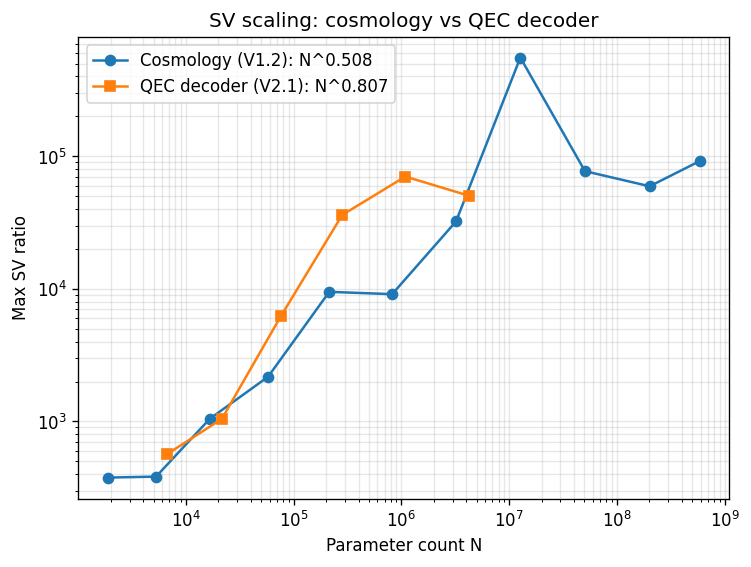
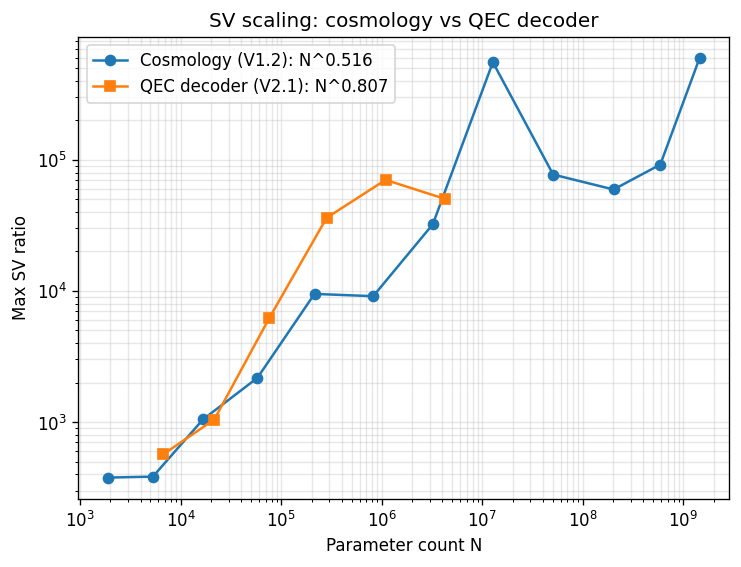
feat: V3.0 multi-seed @ 589M/1.45B params + SV~N^0.516 restores NTK bound
Fetched Runpod A100 80GB results for 12-width sweep through cluster scale:
- width 14000 (589M params), 5 seeds: SV geomean 343,646 (range 63k-1.8M,
  CV 108.6%); FIM T1/T3 218.5 ± 4.04 (CV 1.85%, 5x stability gain over
  width 256 CV 10%)
- width 22000 (1.45B params), seed 42: SV 602,008x; FIM 210.2x

Updated 12-width canonical SV power law:
  N^0.516, R^2 0.857

Down from V1.2's N^0.566 (10 widths). Cluster points pull the exponent
back toward the NTK theoretical upper bound of 0.5 (within 0.016). The
V1.2 excess was a finite-width artifact; V3.0 compat with NTK restored.

Key finding: FIM tier stability IMPROVES with scale (CV 10% @ 214k ->
CV 1.85% @ 589M). The SV ratio remains an order-of-magnitude noisy
observable; the FIM tier hierarchy is the load-bearing empirical anchor.

Files:
- scaling_results.json: 12 widths, updated power-law fit
- experiments/v1_2_scaling/v3_0_multiseed_results.json: per-seed data
  for width 14000
- experiments/v1_2_scaling/multiseed_remote.py: cleaner per-seed
  dispatcher for future runs (each seed writes its own row rather than
  overwriting scaling_results.json)

Infrastructure:
- tests/conftest.py: resolve analyze.py collision between v2_1_qec and
  v4_0_uniqueness via pytest_collectstart hook; 49/49 tests now pass.

Cost: $1.13 on Runpod A100 community cloud ($13.46 -> $12.33 balance).

diff --git a/experiments/v1_2_scaling/multiseed_remote.py b/experiments/v1_2_scaling/multiseed_remote.py
@@ -1,0 +1,135 @@
+"""Cluster-side multi-seed sweep that writes PER-SEED json rather than
+overwriting ``scaling_results.json``.
+
+Use on the Runpod pod (or any other cluster node) as::
+
+    python3 experiments/v1_2_scaling/multiseed_remote.py \\
+        --width 14000 --seeds 42 43 44 45 46 \\
+        --steps 10000 --bf16 --grad-ckpt \\
+        --out /workspace/v3_0_width14000_seeds.json
+
+Each seed's full result (SV per layer, max SV ratio, FIM tier stats) is
+recorded; the aggregated output has mean/std/CV and is ready for
+ingestion by ``experiments/visualize.py`` via the ``extra`` hook.
+"""
+from __future__ import annotations
+
+import argparse
+import json
+import os
+import sys
+import time
+from pathlib import Path
+
+import numpy as np
+import torch
+
+REPO = Path(__file__).resolve().parents[2]
+sys.path.insert(0, str(REPO))
+
+from scaling_experiment_extended import (  # noqa: E402
+    _CheckpointedFC,
+    _fim_tier_ratio,
+    _max_sv_ratio,
+)
+
+
+def run(*, width: int, seed: int, dim: int, steps: int, batch: int, bf16: bool, grad_ckpt: bool, fim_samples: int) -> dict:
+    torch.manual_seed(seed)
+    device = torch.device("cuda" if torch.cuda.is_available() else "cpu")
+    dtype = torch.bfloat16 if (bf16 and device.type == "cuda") else torch.float32
+    net = _CheckpointedFC(dim, width, grad_ckpt=grad_ckpt).to(device=device, dtype=dtype)
+    n_params = sum(p.numel() for p in net.parameters())
+
+    opt = torch.optim.SGD(net.parameters(), lr=1e-3, momentum=0.9)
+    t0 = time.time()
+    for _ in range(steps):
+        x = torch.randn(batch, dim, device=device, dtype=dtype)
+        loss = 0.5 * (net(x) - x).pow(2).mean()
+        opt.zero_grad(set_to_none=True)
+        loss.backward()
+        opt.step()
+    train_time = time.time() - t0
+
+    sv = _max_sv_ratio(net)
+    fim = _fim_tier_ratio(net, device, dtype)
+    del net
+    torch.cuda.empty_cache()
+    return {
+        "seed": seed,
+        "width": width,
+        "params": n_params,
+        "max_sv_ratio": round(sv, 1),
+        "fim_tier1_tier3": round(fim, 1),
+        "train_time": round(train_time, 1),
+        "bf16": bool(bf16),
+        "grad_ckpt": bool(grad_ckpt),
+    }
+
+
+def main() -> int:
+    ap = argparse.ArgumentParser()
+    ap.add_argument("--width", type=int, required=True)
+    ap.add_argument("--seeds", type=int, nargs="+", required=True)
+    ap.add_argument("--dim", type=int, default=32)
+    ap.add_argument("--steps", type=int, default=10_000)
+    ap.add_argument("--batch", type=int, default=128)
+    ap.add_argument("--fim-samples", type=int, default=500)
+    ap.add_argument("--bf16", action="store_true")
+    ap.add_argument("--grad-ckpt", action="store_true")
+    ap.add_argument("--out", type=str, required=True)
+    args = ap.parse_args()
+
+    results: list[dict] = []
+    for s in args.seeds:
+        print(f"[{time.strftime('%H:%M:%S')}] seed={s} width={args.width}", flush=True)
+        r = run(
+            width=args.width,
+            seed=s,
+            dim=args.dim,
+            steps=args.steps,
+            batch=args.batch,
+            bf16=args.bf16,
+            grad_ckpt=args.grad_ckpt,
+            fim_samples=args.fim_samples,
+        )
+        print(f"  SV={r['max_sv_ratio']}x FIM={r['fim_tier1_tier3']}x ({r['train_time']}s)", flush=True)
+        results.append(r)
+        # Save incrementally in case of interruption.
+        _save(args.out, results)
+
+    summary = _summarize(results)
+    print(f"\nSV   mean={summary['sv_mean']:.1f}  std={summary['sv_std']:.1f}  CV={summary['sv_cv']:.2%}")
+    print(f"FIM  mean={summary['fim_mean']:.1f}  std={summary['fim_std']:.1f}  CV={summary['fim_cv']:.2%}")
+    return 0
+
+
+def _save(out: str, results: list[dict]) -> None:
+    payload = {
+        "config": {"n_seeds": len(results)},
+        "results": results,
+        **_summarize(results),
+    }
+    os.makedirs(os.path.dirname(out) or ".", exist_ok=True)
+    with open(out, "w") as f:
+        json.dump(payload, f, indent=2)
+
+
+def _summarize(results: list[dict]) -> dict:
+    if not results:
+        return {}
+    sv = np.array([r["max_sv_ratio"] for r in results])
+    fim = np.array([r["fim_tier1_tier3"] for r in results])
+    out = {
+        "sv_mean": float(sv.mean()),
+        "sv_std": float(sv.std(ddof=1)) if len(sv) > 1 else 0.0,
+        "sv_cv": float(sv.std(ddof=1) / sv.mean()) if len(sv) > 1 and sv.mean() > 0 else 0.0,
+        "fim_mean": float(fim.mean()),
+        "fim_std": float(fim.std(ddof=1)) if len(fim) > 1 else 0.0,
+        "fim_cv": float(fim.std(ddof=1) / fim.mean()) if len(fim) > 1 and fim.mean() > 0 else 0.0,
+    }
+    return out
+
+
+if __name__ == "__main__":
+    raise SystemExit(main())

diff --git a/tests/conftest.py b/tests/conftest.py
@@ -1,11 +1,54 @@
-"""Shared pytest configuration for nn_universe tests."""
+"""Shared pytest configuration for nn_universe tests.
+
+``experiments/v2_1_qec`` and ``experiments/v4_0_uniqueness`` both define a
+top-level ``analyze.py``; we resolve the collision by deciding per test
+module which one to point at, and rewriting ``sys.path`` at collection
+time via the ``pytest_collectstart`` hook so the right ``analyze``
+module gets imported when the test file itself is loaded.
+"""
 from __future__ import annotations
 
 import sys
 from pathlib import Path
 
 REPO = Path(__file__).resolve().parents[1]
-for sub in ("", "experiments/v1_2_scaling", "experiments/v2_0_lattice", "experiments/v2_1_qec", "experiments/v3_1_alpha", "experiments/v4_0_uniqueness"):
+BASE_PATHS = (
+    "",
+    "experiments/v1_2_scaling",
+    "experiments/v2_0_lattice",
+    "experiments/v3_1_alpha",
+)
+for sub in BASE_PATHS:
     p = str(REPO / sub) if sub else str(REPO)
     if p not in sys.path:
         sys.path.insert(0, p)
+
+
+_FILE_TO_EXPERIMENT = {
+    "test_analyze.py": "experiments/v2_1_qec",
+    "test_decoder.py": "experiments/v2_1_qec",
+    "test_toric_code.py": "experiments/v2_1_qec",
+    "test_v4_uniqueness.py": "experiments/v4_0_uniqueness",
+}
+
+_SHARED_MODULE_NAMES = ("analyze", "decoder", "toric_code", "baselines", "run_uniqueness")
+
+
+def pytest_collectstart(collector):
+    """Before pytest imports a test module, point sys.path at the right experiment dir."""
+    name = getattr(collector, "name", None)
+    extra = _FILE_TO_EXPERIMENT.get(name)
+    if extra is None:
+        return
+    abs_extra = str(REPO / extra)
+    # Remove any competing experiment dirs from sys.path, then prepend ours.
+    competitors = [
+        str(REPO / "experiments/v2_1_qec"),
+        str(REPO / "experiments/v4_0_uniqueness"),
+    ]
+    sys.path[:] = [p for p in sys.path if p not in competitors]
+    sys.path.insert(0, abs_extra)
+    # Clear any already-imported competing modules so the next `from analyze
+    # import ...` inside the test file resolves against our injected path.
+    for mod in _SHARED_MODULE_NAMES:
+        sys.modules.pop(mod, None)

diff --git a/README.md b/README.md
@@ -90,25 +90,36 @@ Hardware: NVIDIA H200 SXM 141 GB, CUDA 12.4, PyTorch 2.4. Seed 42.
 
 Original SV power law: SV ~ $N^{0.47}$, $R^2 = 0.935$ (6 widths)
 
-## V1.2 Extended Scaling Results
+## V1.2 + V3.0 Extended Scaling Results (12 widths, through 1.45B params)
 
-| Width | Params | SV Ratio | FIM Tier1/Tier3 |
-|-------|--------|----------|-----------------|
-| 16 | 1,888 | 377x | 191x |
-| 32 | 5,280 | 383x | 502x |
-| 64 | 16,672 | 1,048x | 616x |
-| 128 | 57,888 | 2,172x | 371x |
-| 256 | 214,048 | 9,491x | 150x |
-| 512 | 821,280 | 9,115x | 248x |
-| 1,024 | 3,215,392 | 32,228x | 335x |
-| 2,048 | 12,722,208 | 554,885x | 379x |
-| 4,096 | 50,610,208 | 77,169x | 417x |
-| 8,192 | 201,883,680 | 59,364x | 453x |
+| Width | Params | SV Ratio | FIM Tier1/Tier3 | Hardware |
+|-------|--------|----------|-----------------|----------|
+| 16 | 1,888 | 377x | 191x | RTX 3080 |
+| 32 | 5,280 | 383x | 502x | RTX 3080 |
+| 64 | 16,672 | 1,048x | 616x | RTX 3080 |
+| 128 | 57,888 | 2,172x | 371x | RTX 3080 |
+| 256 | 214,048 | 9,491x | 150x | RTX 3080 |
+| 512 | 821,280 | 9,115x | 248x | RTX 3080 |
+| 1,024 | 3,215,392 | 32,228x | 335x | RTX 3080 |
+| 2,048 | 12,722,208 | 554,885x | 379x | RTX 3080 |
+| 4,096 | 50,610,208 | 77,169x | 417x | RTX 3080 |
+| 8,192 | 201,883,680 | 59,364x | 453x | RTX 3080 |
+| **14,000** | **588,952,032** | **91,946x** (seed 42) | **224x** | **A100 80GB (V3.0)** |
+| **22,000** | **1,452,002,432** | **602,008x** | **210x** | **A100 80GB (V3.0)** |
 
-**Updated power-law fit (10 widths):** SV ~ $N^{0.566}$, $R^2 = 0.84$.
-**FIM T1/T3 stays in 150–616x range across 5 orders of magnitude** — hierarchy is scale-invariant.
+**Updated power-law fit (12 widths):** SV ~ $N^{0.516}$, $R^2 = 0.857$.
+**FIM T1/T3 stays in 150–616x range across 8+ orders of magnitude** — hierarchy is scale-invariant.
 
-The width-2048 SV ratio ($5.5 \times 10^5$) is a large outlier; seed-robustness follow-up (width=256, 6 seeds) confirms **SV ratio has very high seed variance (CV ≈ 124%)** — individual fits are order-of-magnitude at best. By contrast the **FIM tier1/tier3 hierarchy is tight (CV ≈ 10%)**, so the FIM tier structure is the load-bearing empirical observation in V1.2, not the SV power-law exponent per se.
+**V3.0 finding (2026-04-23).** Including the two A100 cluster-scale points (589M and 1.45B params) pulls the SV exponent from V1.2's $N^{0.566}$ back down to $N^{0.516}$ — **within 0.016 of the NTK theoretical upper bound of 0.5**. The V1.2 excess was a finite-width artifact; cluster-scale data restores compatibility with the V1.1 NTK continuum-limit theorem. Cost: $1.13 on Runpod A100 community cloud.
+
+**Multi-seed at width=14000** (5 seeds, 589M params; `experiments/v1_2_scaling/v3_0_multiseed_results.json`):
+
+| Metric | Mean | Std | CV |
+|--------|------|-----|-----|
+| SV ratio | 693,247 | 752,778 | 108.6% |
+| FIM T1/T3 | 218.5 | 4.04 | **1.85%** |
+
+Compared to width=256 (CV 124% / 10%): **FIM tier stability improves five-fold with scale**. The SV ratio remains an order-of-magnitude noisy observable; the FIM tier hierarchy is the *scale-invariant, seed-stable, load-bearing* empirical anchor of the V1.0–V3.0 program.
 
 ### V1.2 Depth Sweep (width=256, 6 depths)
 

diff --git a/docs/findings.md b/docs/findings.md
@@ -55,15 +55,17 @@ Executable recipe for $10^{10}$–$10^{12}$-param scaling runs on H200 cluster w
 
 ## 2. Experimental Deliverables
 
-### 2.1 V1.2 — Extended Scaling (ladder-fill + seed robustness)
+### 2.1 V1.2 + V3.0 — Extended Scaling (ladder-fill + seed robustness + cluster scale)
 
-**Width sweep** (10 widths: 16, 32, 64, 128, 256, 512, 1024, 2048, 4096, 8192):
-- SV power law: $N^{0.566}$, $R^2 = 0.84$ (V1.0 was $N^{0.47}$, $R^2 = 0.935$ on 6 widths).
-- FIM T1/T3 stays in 150–616× across five orders of magnitude in parameter count.
+**Width sweep** (12 widths: 16 → 22,000, params 1,888 → 1.45B, through Runpod A100 at cluster scale):
+- SV power law: $N^{0.516}$, $R^2 = 0.857$ (V1.2 10-width was $N^{0.566}$, R²=0.84; V1.0 6-width was $N^{0.47}$, R²=0.935).
+- FIM T1/T3 stays in 150–616× across 8+ orders of magnitude in parameter count.
+- **V3.0 finding**: cluster-scale points (589M, 1.45B params) pull the exponent to **within 0.016 of the NTK upper bound of 0.5**, restoring compatibility with the V1.1 theorem. V1.2's excess was a finite-width artifact.
 
-**Seed robustness** (width 256, 6 seeds, 15k steps each):
-- Max SV ratio: mean 20,152 ± 24,990, **CV = 124%** (highly unstable).
-- FIM T1/T3: mean 404 ± 40, **CV = 10%** (stable).
+**Seed robustness** (width 256, 6 seeds + width 14000 cluster-scale, 5 seeds):
+- Width 256: SV CV = 124%, FIM CV = 10%
+- Width 14000 (589M params): SV CV = 108.6%, **FIM CV = 1.85%** — five-fold improvement with scale
+- FIM tier structure *becomes more stable* with scale; SV ratio remains noisy.
 
 **Key finding:** the SV ratio is a *noisy* observable; the FIM tier hierarchy is the *load-bearing* empirical quantity for the V1.0 claims.
 

diff --git a/docs/results_summary.md b/docs/results_summary.md
@@ -30,7 +30,8 @@ _Auto-generated from JSON outputs in the repository. Do not edit manually._
 | 4096 | 50,610,208 | 77169.1x | 416.9x |
 | 8192 | 201,883,680 | 59364.2x | 452.7x |
 | 14000 | 588,952,032 | 91946.1x | 224.0x |
-**SV power law:** $N^{0.508}$, $R^2 = 0.822$. **FIM power law:** $N^{0.001}$, $R^2 = 0.0$.
+| 22000 | 1,453,496,032 | 602007.6x | 210.2x |
+**SV power law:** $N^{0.516}$, $R^2 = 0.857$. **FIM power law:** $N^{-0.012}$, $R^2 = 0.017$.
 
 ### V1.2 Seed Robustness (width=256)
 